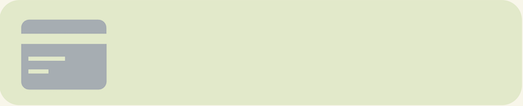
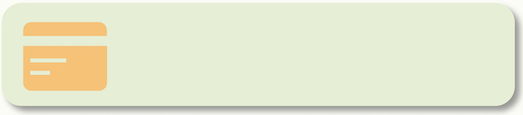
更改页面3组件

Changed region(s): [[0.0, 0.0, 1.0, 0.9906]]

diff --git a/src/main/java/com/virtualbank/ui/Page03_ChildHome.java b/src/main/java/com/virtualbank/ui/Page03_ChildHome.java
@@ -10,7 +10,7 @@ import java.util.UUID;
 
 public class Page03_ChildHome extends JFrame {
 
-    private JButton exitButton = new JButton("Exit");
+    private JButton exitButton = new JButton();
     private JButton goalButton = new JButton();
     private JButton taskButton = new JButton();
     private JButton createAccountButton = new JButton();
@@ -55,39 +55,29 @@ public class Page03_ChildHome extends JFrame {
         backgroundPanel.add(sticker);
 
         // 返回上一级，LoginPage的按钮Exit
-        exitButton.setBounds(20, 20, 100, 50);
-        Font font = new Font(exitButton.getFont().getName(), Font.PLAIN, 20);
-        exitButton.setFont(font);
+        exitButton.setBounds(20, 20, 134, 50);
+        ImageIcon exitButtonIcon = new ImageIcon("images/ExitButtonImage.png");
+        exitButton.setIcon(exitButtonIcon);
         exitButton.setBorder(null);
         backgroundPanel.add(exitButton);
 
         // 进入孩子目标页面的Goal按钮
-        goalButton.setBounds(371, 80, 220, 109);
+        goalButton.setBounds(371, 80, 238, 113);
         ImageIcon goalButtonIcon = new ImageIcon("images/GoalButton.png");
         goalButton.setIcon(goalButtonIcon);
-        // 目标及其完成进度
-        // TODO 现在这部分还不能变化 目标不归我管 怎么处理
-        Double currentAmount = 2544.00; // 当前进度
-        Double goal = 500.00; // 目标
-        String goalText = String.format("%.2f/%.2f", currentAmount, goal);
-        JLabel initialGoalButtonLabel = new JLabel(goalText);
-        initialGoalButtonLabel.setBounds(42, 20, 220, 109);
-        initialGoalButtonLabel.setHorizontalAlignment(SwingConstants.CENTER);
         goalButton.setLayout(null);
-        goalButton.add(initialGoalButtonLabel);
         goalButton.setBorder(null);
         backgroundPanel.add(goalButton);
-        this.goalButtonLabel = initialGoalButtonLabel;
 
         // 进入孩子任务页面的Task按钮
-        taskButton.setBounds(672, 80, 220, 110);
+        taskButton.setBounds(672, 80, 238, 113);
         ImageIcon taskButtonIcon = new ImageIcon("images/TaskButton.png");
         taskButton.setIcon(taskButtonIcon);
         taskButton.setBorder(null);
         backgroundPanel.add(taskButton);
 
         // 创建新账户的按钮
-        createAccountButton.setBounds(369, 200, 523, 64);
+        createAccountButton.setBounds(369, 200, 525, 100);
         ImageIcon createAccountButtonIcon = new ImageIcon("images/CreateAccountButton.png");
         createAccountButton.setIcon(createAccountButtonIcon);
         createAccountButton.setBorder(null);
@@ -96,7 +86,7 @@ public class Page03_ChildHome extends JFrame {
         // 创建带滚动条的区域
         JPanel initialScrollPanel = new JPanel();
         initialScrollPanel.setLayout(new BoxLayout(initialScrollPanel, BoxLayout.Y_AXIS));
-        initialScrollPanel.setBackground(new Color(0xf8f6ea));
+        initialScrollPanel.setBackground(new Color(0xfcfcf7));
         JScrollPane scrollPane = new JScrollPane(initialScrollPanel);
         scrollPane.setBounds(369, 280, 550, 400); // 调整位置和大小
         scrollPane.setBackground(new Color(0xf8f6ea));
@@ -157,7 +147,7 @@ public class Page03_ChildHome extends JFrame {
         }
 
         public AccountLabel(String ID, Double money, String type) {
-            this.setSize(523, 106);
+            this.setSize(523, 117);
             Font font = new Font(this.getFont().getName(), Font.PLAIN, 22);
             // 账户ID
             JLabel idLabel = new JLabel("ID:" + ID);
@@ -179,12 +169,23 @@ public class Page03_ChildHome extends JFrame {
             this.add(typeLabel);
             // 进入账户的按钮 Enter
             // TODO 这个应该怎么回调？
-            enterButton = new JButton("Enter");
-            enterButton.setBounds(425, 55, 80, 40);
+            enterButton = new JButton();
+            enterButton.setBounds(415, 40, 95, 60);
+            ImageIcon enterButtonIcon = new ImageIcon("images/EnterButtonImage.png");
+            enterButton.setIcon(enterButtonIcon);
             enterButton.setBorder(null);
             this.add(enterButton);
         }
     }
 
-
+    public static void main(String[] args) {
+        Page03_ChildHome page03ChildHome = new Page03_ChildHome();
+        SavingAccountLabel savingAccountLabel = new SavingAccountLabel("001",12.5);
+        CurrentAccountLabel currentAccountLabel = new CurrentAccountLabel("002", 12.9);
+        PiggyBankLabel piggyBankLabel = new PiggyBankLabel("000",533.33);
+        page03ChildHome.scrollPanel.add(savingAccountLabel);
+        page03ChildHome.scrollPanel.add(currentAccountLabel);
+        page03ChildHome.scrollPanel.add(piggyBankLabel);
+        page03ChildHome.repaint();
+    }
 }
